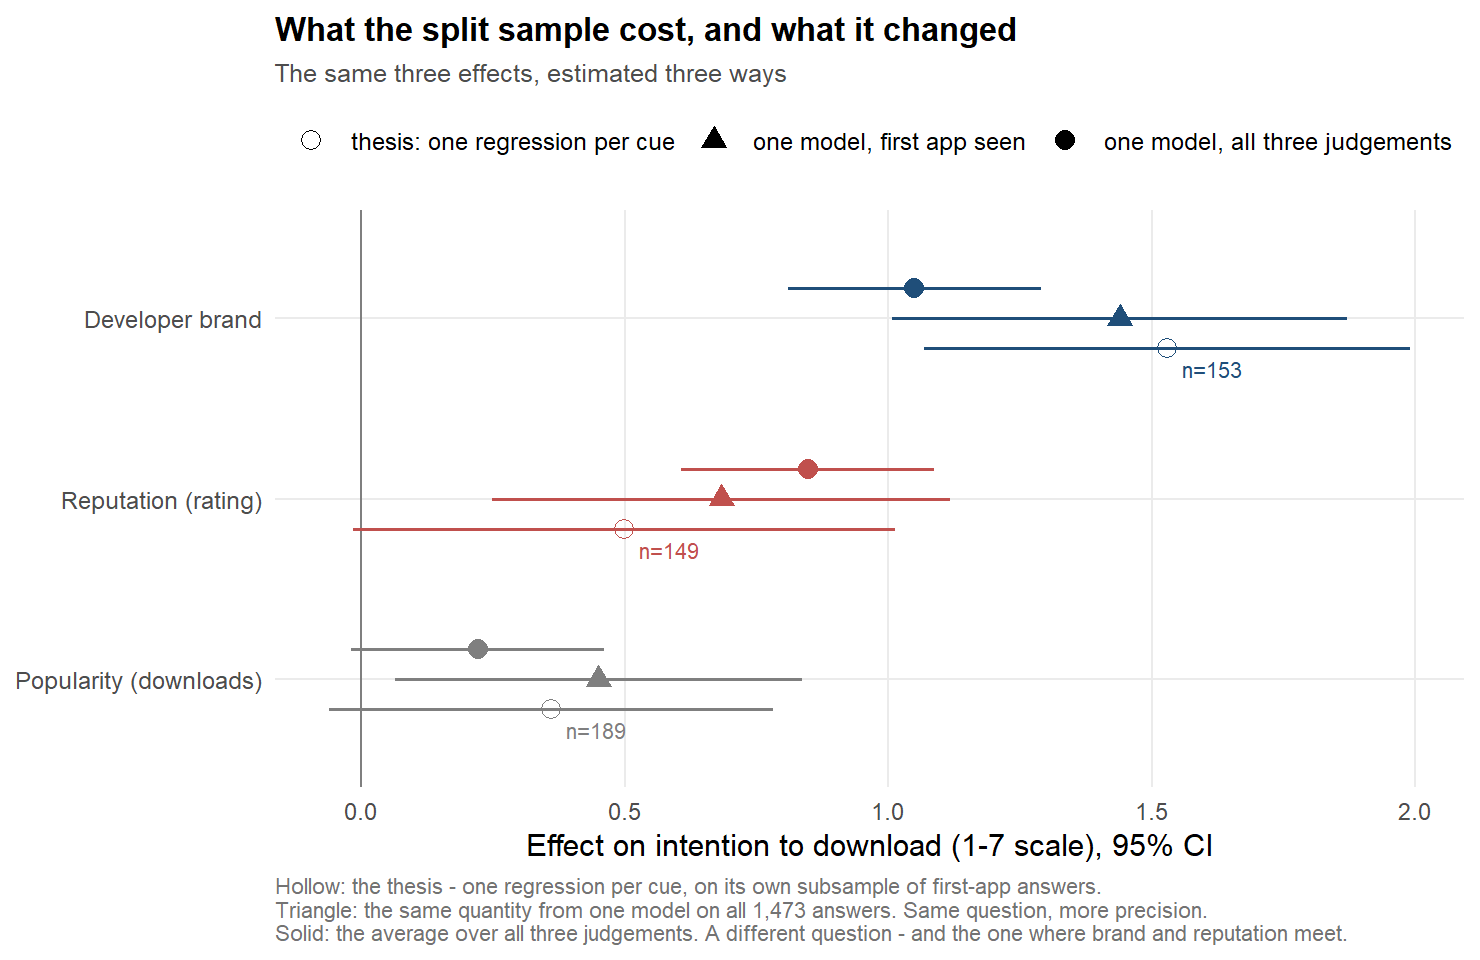
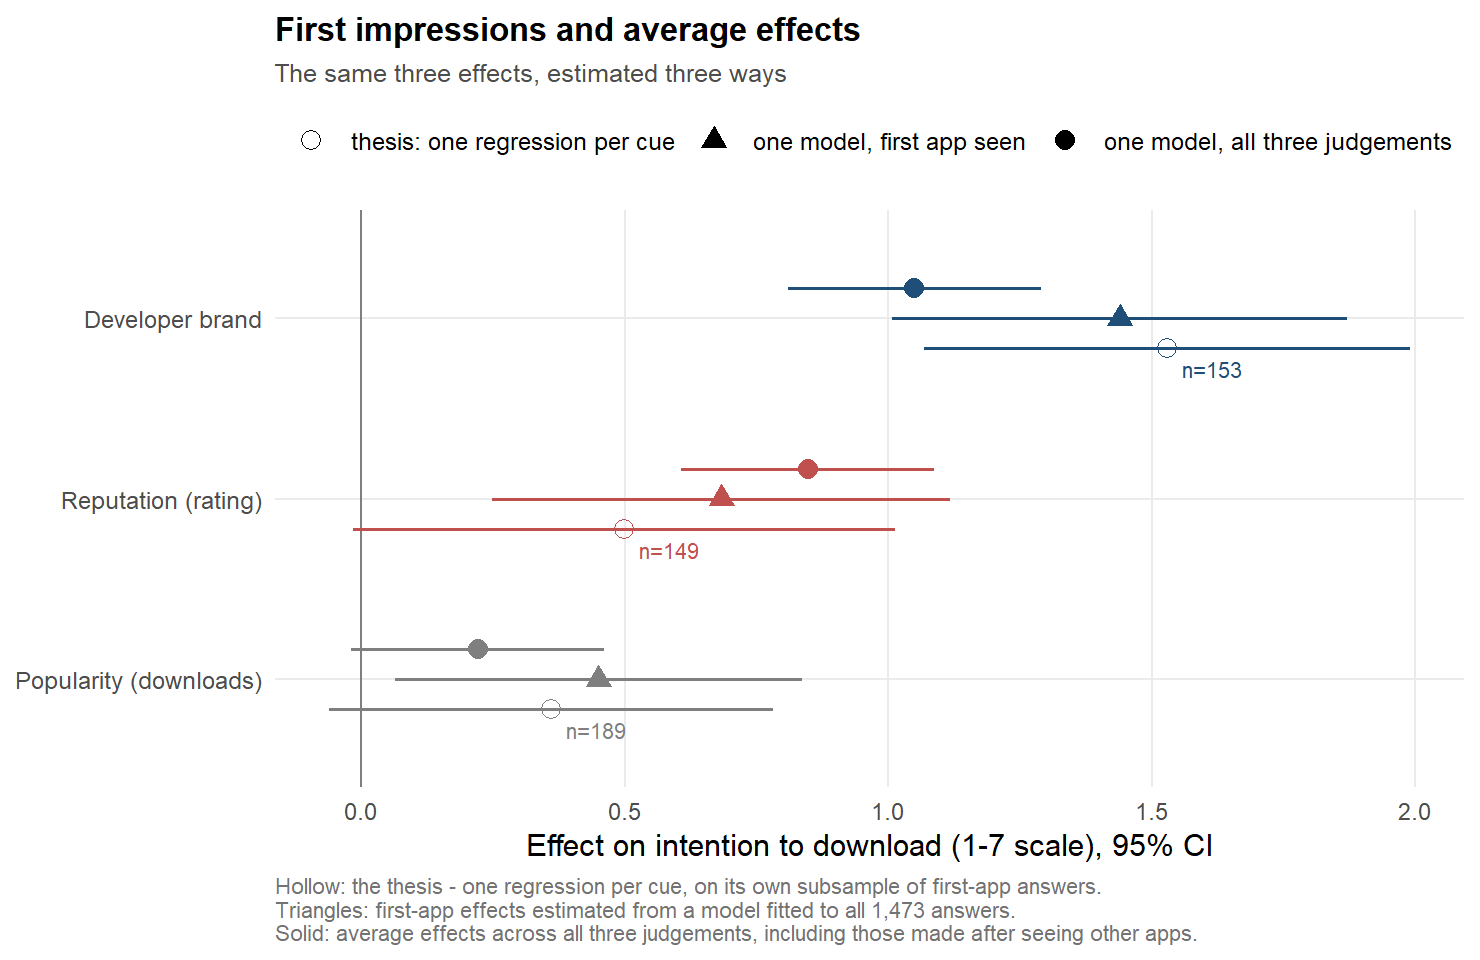
fix: clarify pooling and posterior figures and add pooling-only refresh

Changed region(s): [[0.2176, 0.9375, 0.9014, 1.0], [0.1865, 0.0, 0.6838, 0.0625]]

diff --git a/README.md b/README.md
@@ -122,6 +122,9 @@ RAW_EXPORT=/path/to/export.csv Rscript analysis/R/13_demographics_quality.R
 Rscript analysis/R/16_figures_extended.R --demographics-quality-only
 ```
 
+To refresh only the first-app versus average-effects figure, run
+`Rscript analysis/R/16_figures_extended.R --pooling-only`.
+
 To refresh only the response-scale figure after script 12, run
 `Rscript analysis/R/16_figures_extended.R --scale-only`.
 
